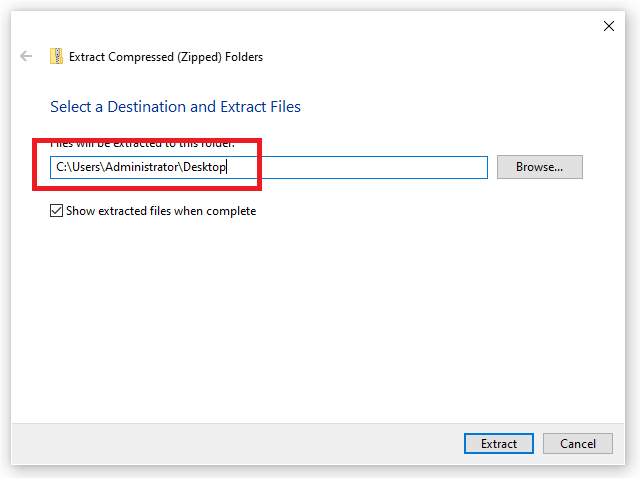
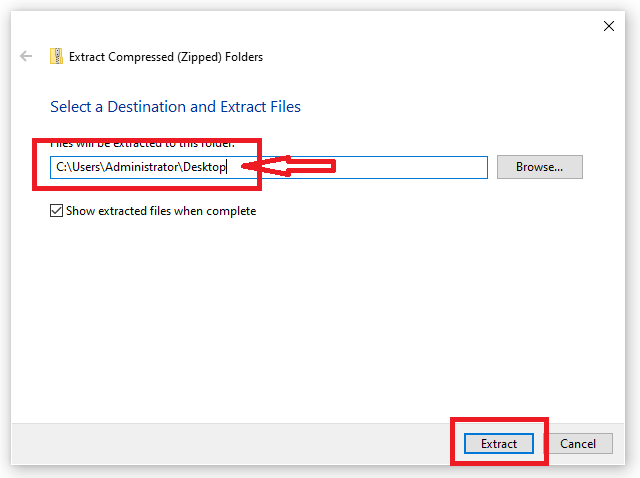
Installation notes

Changed region(s): [[0.6875, 0.8494, 0.875, 0.9958], [0.375, 0.3222, 0.5312, 0.3808]]

diff --git a/Install.md b/Install.md
@@ -5,13 +5,14 @@ Installing bovSEPA on your computer
 
 To install bovSEPA you need to:
 
-  1. Install Python v3.x
-  2. Install Microsoft C++ Build Tools
-  3. Download bovSEPA
-  4. Download additional modules that are required to run the solution
+  1. [Install Python v3.x](#Python)
+  2. [Install Microsoft C++ Build Tools](#MSBldTools)
+  3. [Download bovSEPA](#DLbovSEPA)
+  4. [Download support modules](#DLModules)
+  5. Help the **bovSEPA** project with a couple of clicks.
 
 
-Install Python v3.x
+<a name="Python"></a>Install Python v3.x
 -------------------
 
 ![Download Python from www.python.org](./images/InstallPython-001.PNG "Download Python").
@@ -24,7 +25,7 @@ Click the installer. Before selecting the **Install Now** option check the *Add 
 
 
 
-Install Microsoft C++ Build Tools
+<a name="MSBldTools"></a>Install Microsoft C++ Build Tools
 ---------------------------------
 
 ![Download MS Build Tools](./images/InstallMSC++BuildTools--001.PNG "Download MS Build Tools").
@@ -42,6 +43,47 @@ Once the selected options have been installed exit.
 
 
 
-Download bovSEPA
+<a name="DLbovSEPA"></a>Download bovSEPA
 ----------------
+
+![Login to bovSEPA GitHub page](./images/InstallbovSEPA--001.PNG "Login to bovSEPA GitHub page").
+
+Go to the [bovSEPA GitHub repository](https://www.github.com/chribonn/bovSEPA).
+
+Click the Watch option on the page. You will be asked to register with GitHub.  *Registration is Free*.
+
+>> The Watch option will inform you whenever bovSEPA is enhanced and improved with new features.
+
+>> Registering also allows you to contribute the the project and request new options.
+
+Click the **Starred** option to help spread the word about this project.
+
+
+![Download bovSEPA code archive](./images/InstallbovSEPA--002.PNG "Download bovSEPA code archive").
+
+Click the **Code** button and select the option **Download ZIP**. This will save the program to your computer.
+
+*This tutorial will install the solution on the computer desktop.*
+
+
+![Extract bovSEPA code archive](./images/InstallbovSEPA--003.PNG "Extract bovSEPA code archive").
+
+In *File Explorer* right click on the zip archive and select the option **Extract All...**.
+
+
+![Extract bovSEPA code archive](./images/InstallbovSEPA--004.PNG "Extract bovSEPA code archive").
+
+### READ CAREFULLY
+
+If you accept the directory suggested by the **Extract All...** option the code will be extracted into `Desktop ==> bovSEPA ==> bovSEPA`.
+
+Backspace as shown above to get the installation to be at `Desktop ==> bovSEPA`
+
+Click the **Extact** button.
+
+
+
+<a name="DLModules"></a>Download support modules
+----------------
+
 
